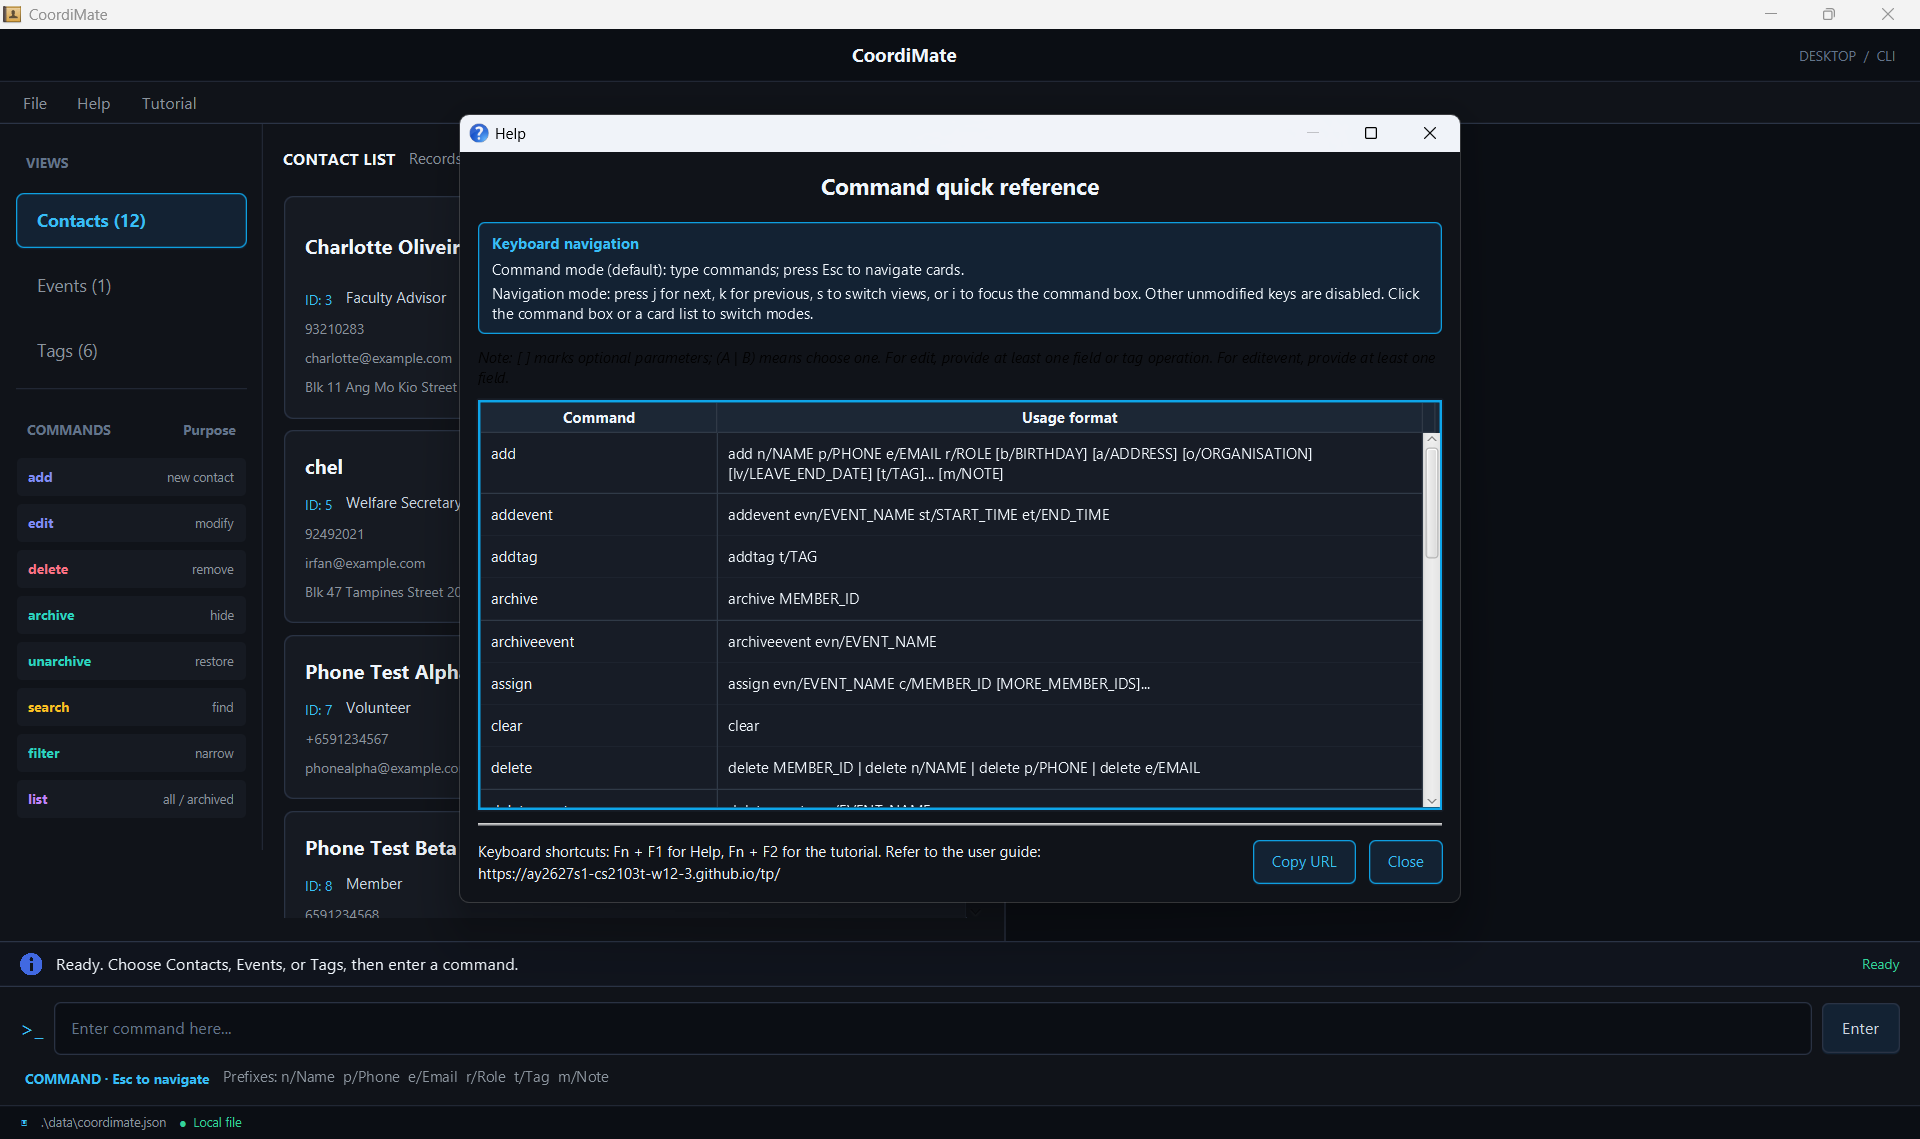
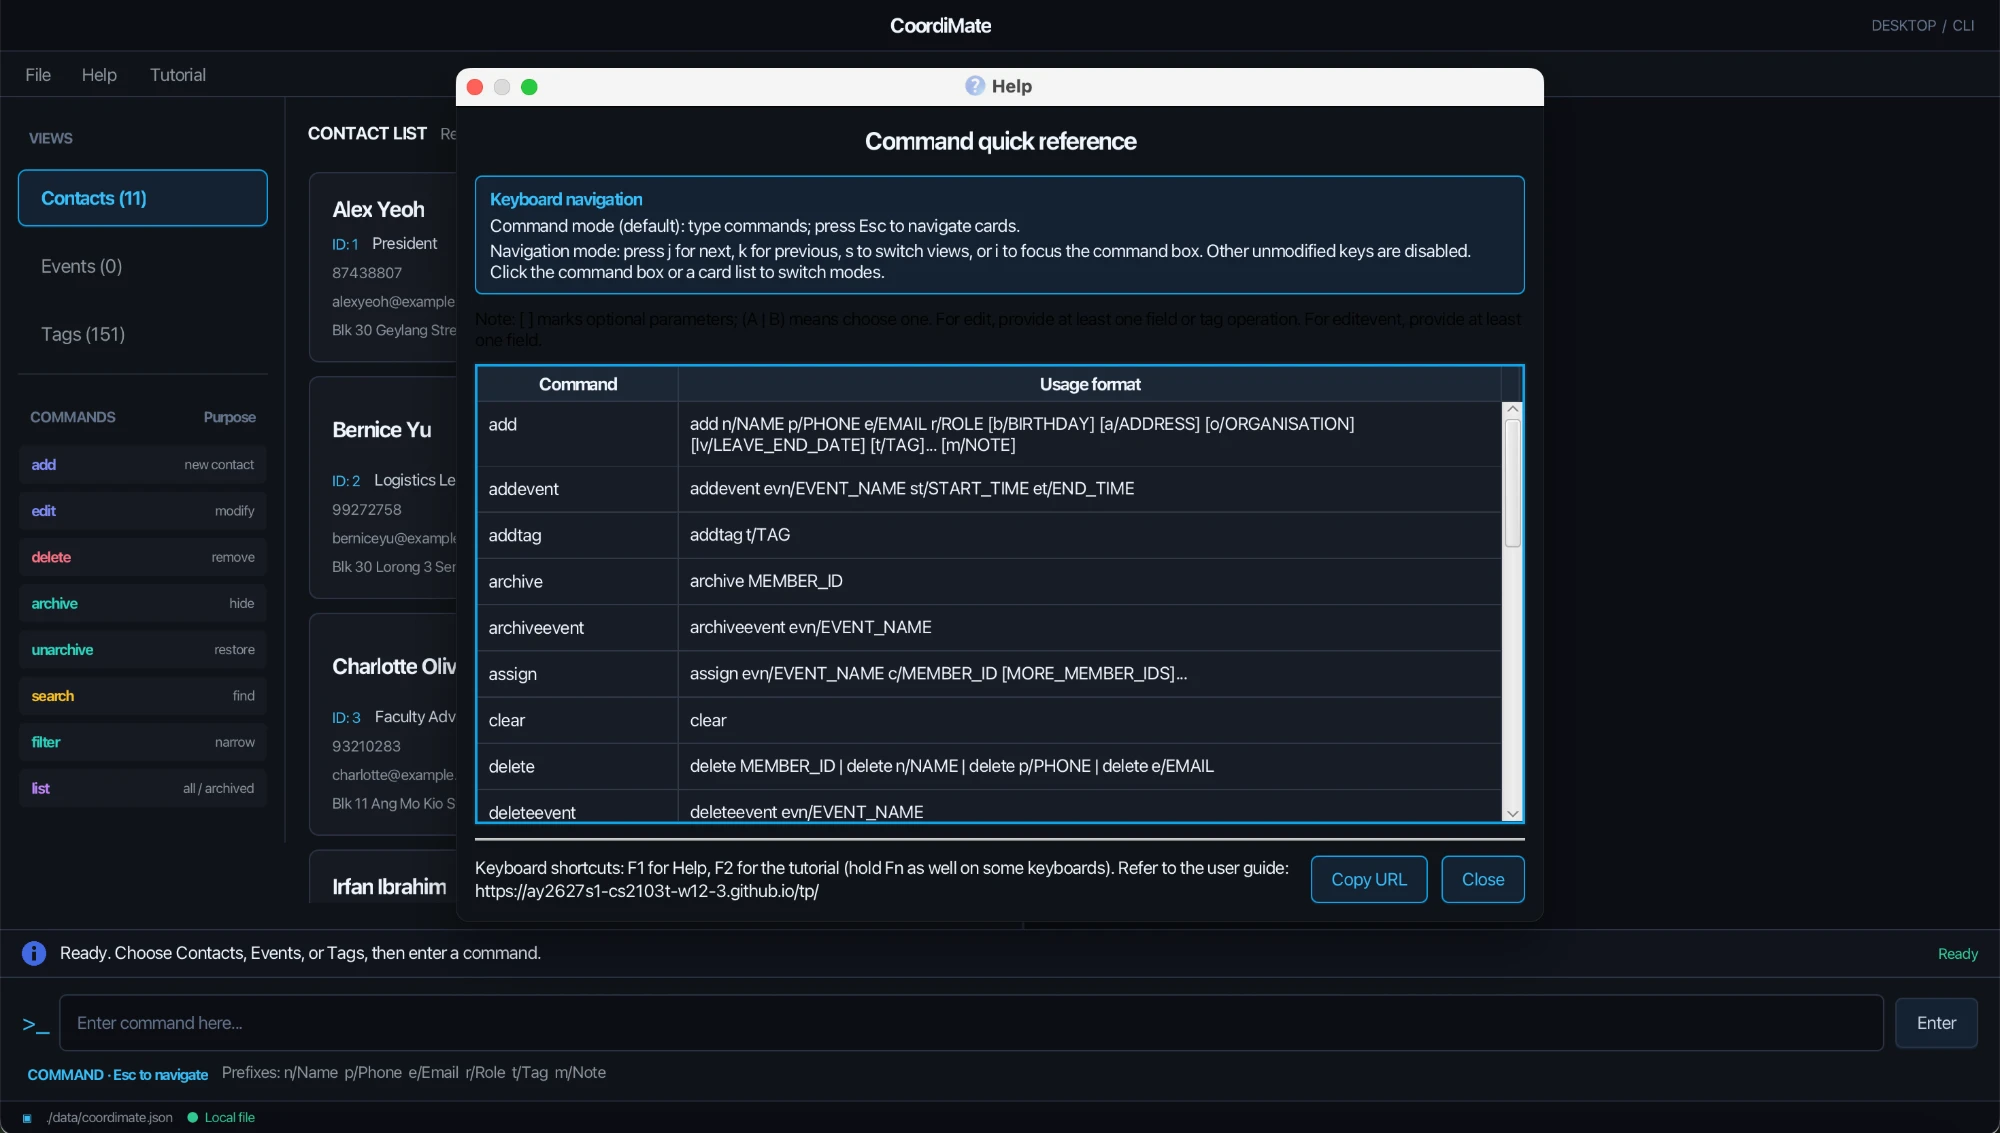
Restore minimized Help window and add Fn note to tutorial steps

diff --git a/src/main/java/coordimate/ui/TutorialWindow.java b/src/main/java/coordimate/ui/TutorialWindow.java
@@ -96,11 +96,13 @@ public class TutorialWindow extends UiPart<StackPane> {
                     TutorialPlacement.CENTER, TutorialTarget.NONE),
             new TutorialStep("Get help anytime",
                     "Select Help in the top bar, type help in the command box, or press "
-                            + HelpWindow.HELP_SHORTCUT + " to see command formats and keyboard shortcuts.",
+                            + HelpWindow.HELP_SHORTCUT + " (Fn + " + HelpWindow.HELP_SHORTCUT + " on some keyboards) "
+                            + "to see command formats and keyboard shortcuts.",
                     TutorialPlacement.BESIDE_TARGET, TutorialTarget.HELP),
             new TutorialStep("Take the tour again",
                     "Select Tutorial in the top bar, type tutorial in the command box, or press "
-                            + TUTORIAL_SHORTCUT + " whenever you need a reminder.",
+                            + TUTORIAL_SHORTCUT + " (Fn + " + TUTORIAL_SHORTCUT + " on some keyboards) "
+                            + "whenever you need a reminder.",
                     TutorialPlacement.CENTER, TutorialTarget.TUTORIAL));
 
     @FXML

diff --git a/src/test/java/coordimate/ui/HelpWindowTest.java b/src/test/java/coordimate/ui/HelpWindowTest.java
@@ -92,6 +92,20 @@ public class HelpWindowTest {
     }
 
     @Test
+    public void focus_minimizedWindow_restoresWindow() throws Exception {
+        FutureTask<Void> task = new FutureTask<>(() -> {
+            HelpWindow helpWindow = new HelpWindow(new Stage());
+            Stage root = helpWindow.getRoot();
+            root.setIconified(true);
+            helpWindow.focus();
+            assertFalse(root.isIconified());
+            return null;
+        });
+        Platform.runLater(task);
+        task.get(10, TimeUnit.SECONDS);
+    }
+
+    @Test
     public void constructor_configuresResizableCommandReference() throws Exception {
         FutureTask<Void> task = new FutureTask<>(() -> {
             HelpWindow helpWindow = new HelpWindow(new Stage());

diff --git a/src/main/java/coordimate/ui/HelpWindow.java b/src/main/java/coordimate/ui/HelpWindow.java
@@ -196,9 +196,10 @@ public class HelpWindow extends UiPart<Stage> {
     }
 
     /**
-     * Focuses on the help window.
+     * Restores the help window if it is minimized, then focuses on it.
      */
     public void focus() {
+        getRoot().setIconified(false);
         getRoot().requestFocus();
     }
 

diff --git a/docs/UserGuide.md b/docs/UserGuide.md
@@ -164,7 +164,7 @@ A command that breaks a constraint is rejected and makes no changes.
 | `EVENT_NAME`, `NEW_EVENT_NAME` | `evn/`, `nevn/` | 1 to 100 printable Unicode characters, including at least one visible character. Internal tabs, line breaks, and control characters are rejected. Several spaces in a row count as one. Event names are unique, ignoring case and extra spaces. See the parameter syntax note below. |
 | `START_TIME`, `END_TIME` | `st/`, `et/` | A real date in `dd-MM-yyyy` format, optionally followed by a 24-hour time in `HH:mm` format, e.g. `17-09-2026` or `17-09-2026 16:30`. The year must be from `0001` to `9999`. The start must not be after the end. |
 | `STATUS` | `att/` | `present` or `absent`, ignoring case. |
-| `MEMBER_ID` | `c/` for `assign` and `unassign`; none for `edit`, `delete`, `archive`, and `unarchive` | A permanent positive integer from 1 to 2147483647 identifying a saved contact, independent of the displayed list. |
+| `MEMBER_ID` | `c/` for `assign` and `unassign`; none for `edit`, `delete`, `archive`, and `unarchive` | A positive integer from 1 to 2147483647 identifying a saved contact. It never changes and does not depend on the displayed list. |
 | `KEYWORD` | none | At least one non-space character. |
 
 "Printable" excludes line breaks and other control characters. "Visible" excludes spaces, zero-width and formatting characters, accent marks on their own, and blank filler characters such as `U+3164` Hangul Filler.
